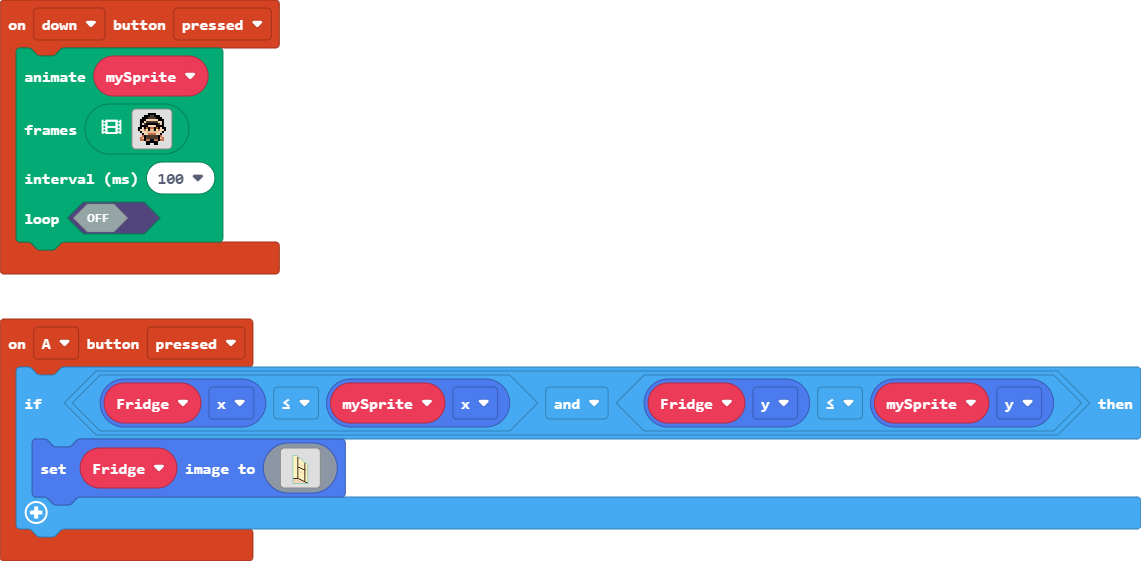
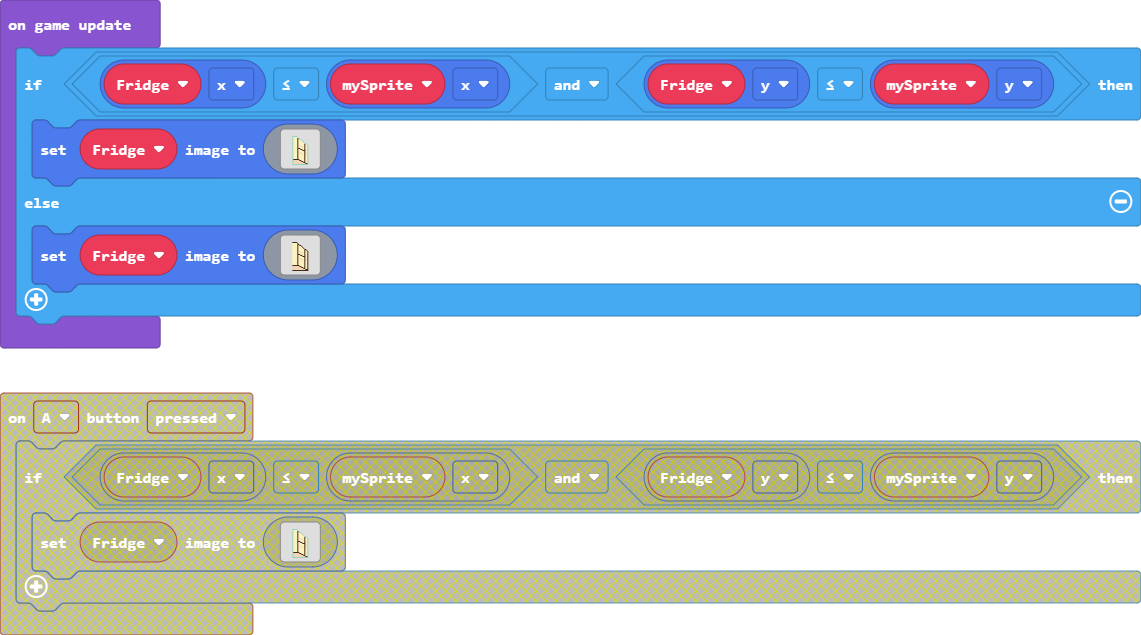
Update pxt.json, main.blocks, main.ts

diff --git a/main.ts b/main.ts
@@ -1,8 +1,3 @@
-controller.A.onEvent(ControllerButtonEvent.Pressed, function () {
-    if (Fridge.x <= mySprite.x && Fridge.y <= mySprite.y) {
-        Fridge.setImage(assets.image`fridgeh`)
-    }
-})
 controller.down.onEvent(ControllerButtonEvent.Pressed, function () {
     animation.runImageAnimation(
     mySprite,
@@ -79,7 +74,6 @@ controller.down.onEvent(ControllerButtonEvent.Pressed, function () {
     false
     )
 })
-let Fridge: Sprite = null
 let mySprite: Sprite = null
 tiles.setCurrentTilemap(tilemap`Cafe`)
 scene.setBackgroundImage(img`
@@ -224,5 +218,12 @@ mySprite = sprites.create(img`
     `, SpriteKind.Player)
 controller.moveSprite(mySprite)
 scene.cameraFollowSprite(mySprite)
-Fridge = sprites.create(assets.image`fridge`, SpriteKind.Player)
+let Fridge = sprites.create(assets.image`fridge`, SpriteKind.Player)
 tiles.placeOnTile(Fridge, tiles.getTileLocation(0, 10))
+game.onUpdate(function () {
+    if (Fridge.x <= mySprite.x && Fridge.y <= mySprite.y) {
+        Fridge.setImage(assets.image`fridgeh`)
+    } else {
+        Fridge.setImage(assets.image`fridge`)
+    }
+})
